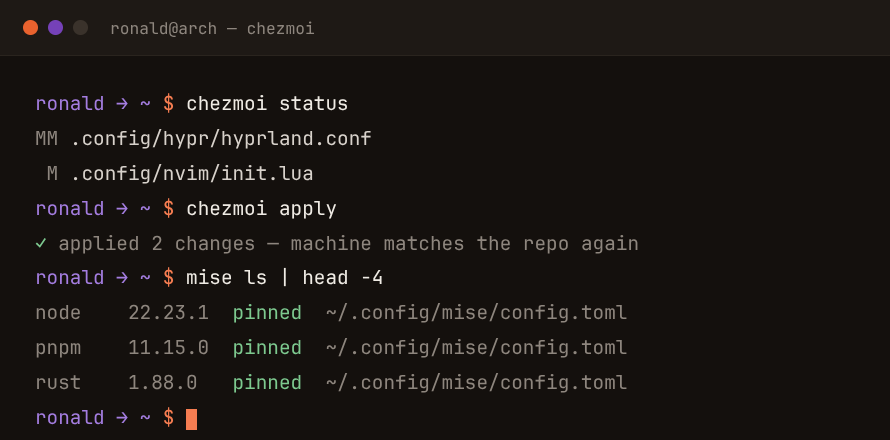
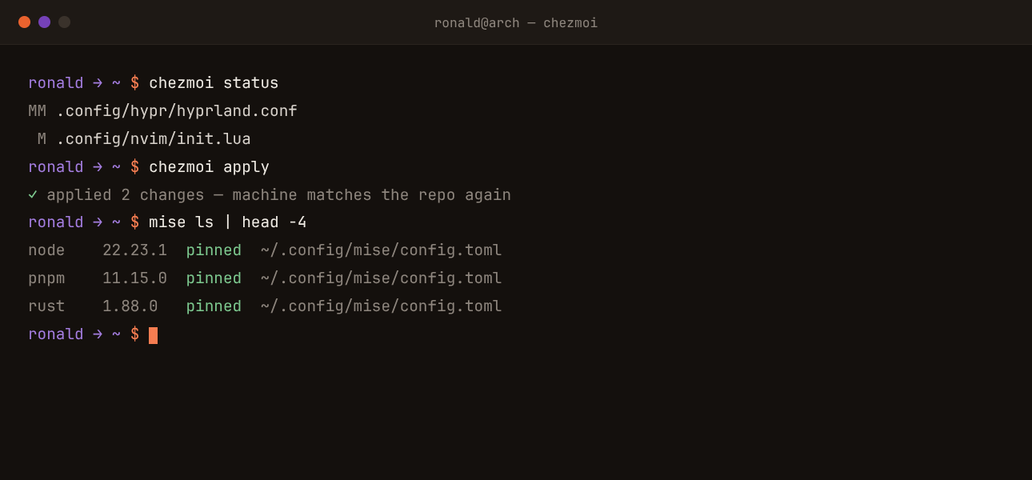
fix: center terminal titles in code frames and card images

diff --git a/src/styles/global.css b/src/styles/global.css
@@ -306,10 +306,6 @@ a.wordmark:hover { color: var(--orange-light); }
 }
 
 /* ---------- expressive-code terminal frames — match the project-card terminals ---------- */
-.prose .expressive-code .frame.is-terminal .header {
-  justify-content: flex-start;
-  padding-inline-start: calc(var(--ec-uiPadInl, 1rem) + 2.9rem);
-}
 .prose .expressive-code .frame.is-terminal .header::before {
   background-color: transparent;
   background-image: linear-gradient(to right, #E9622E 0 33%, #7541B8 33% 66%, #3A322B 66% 100%);